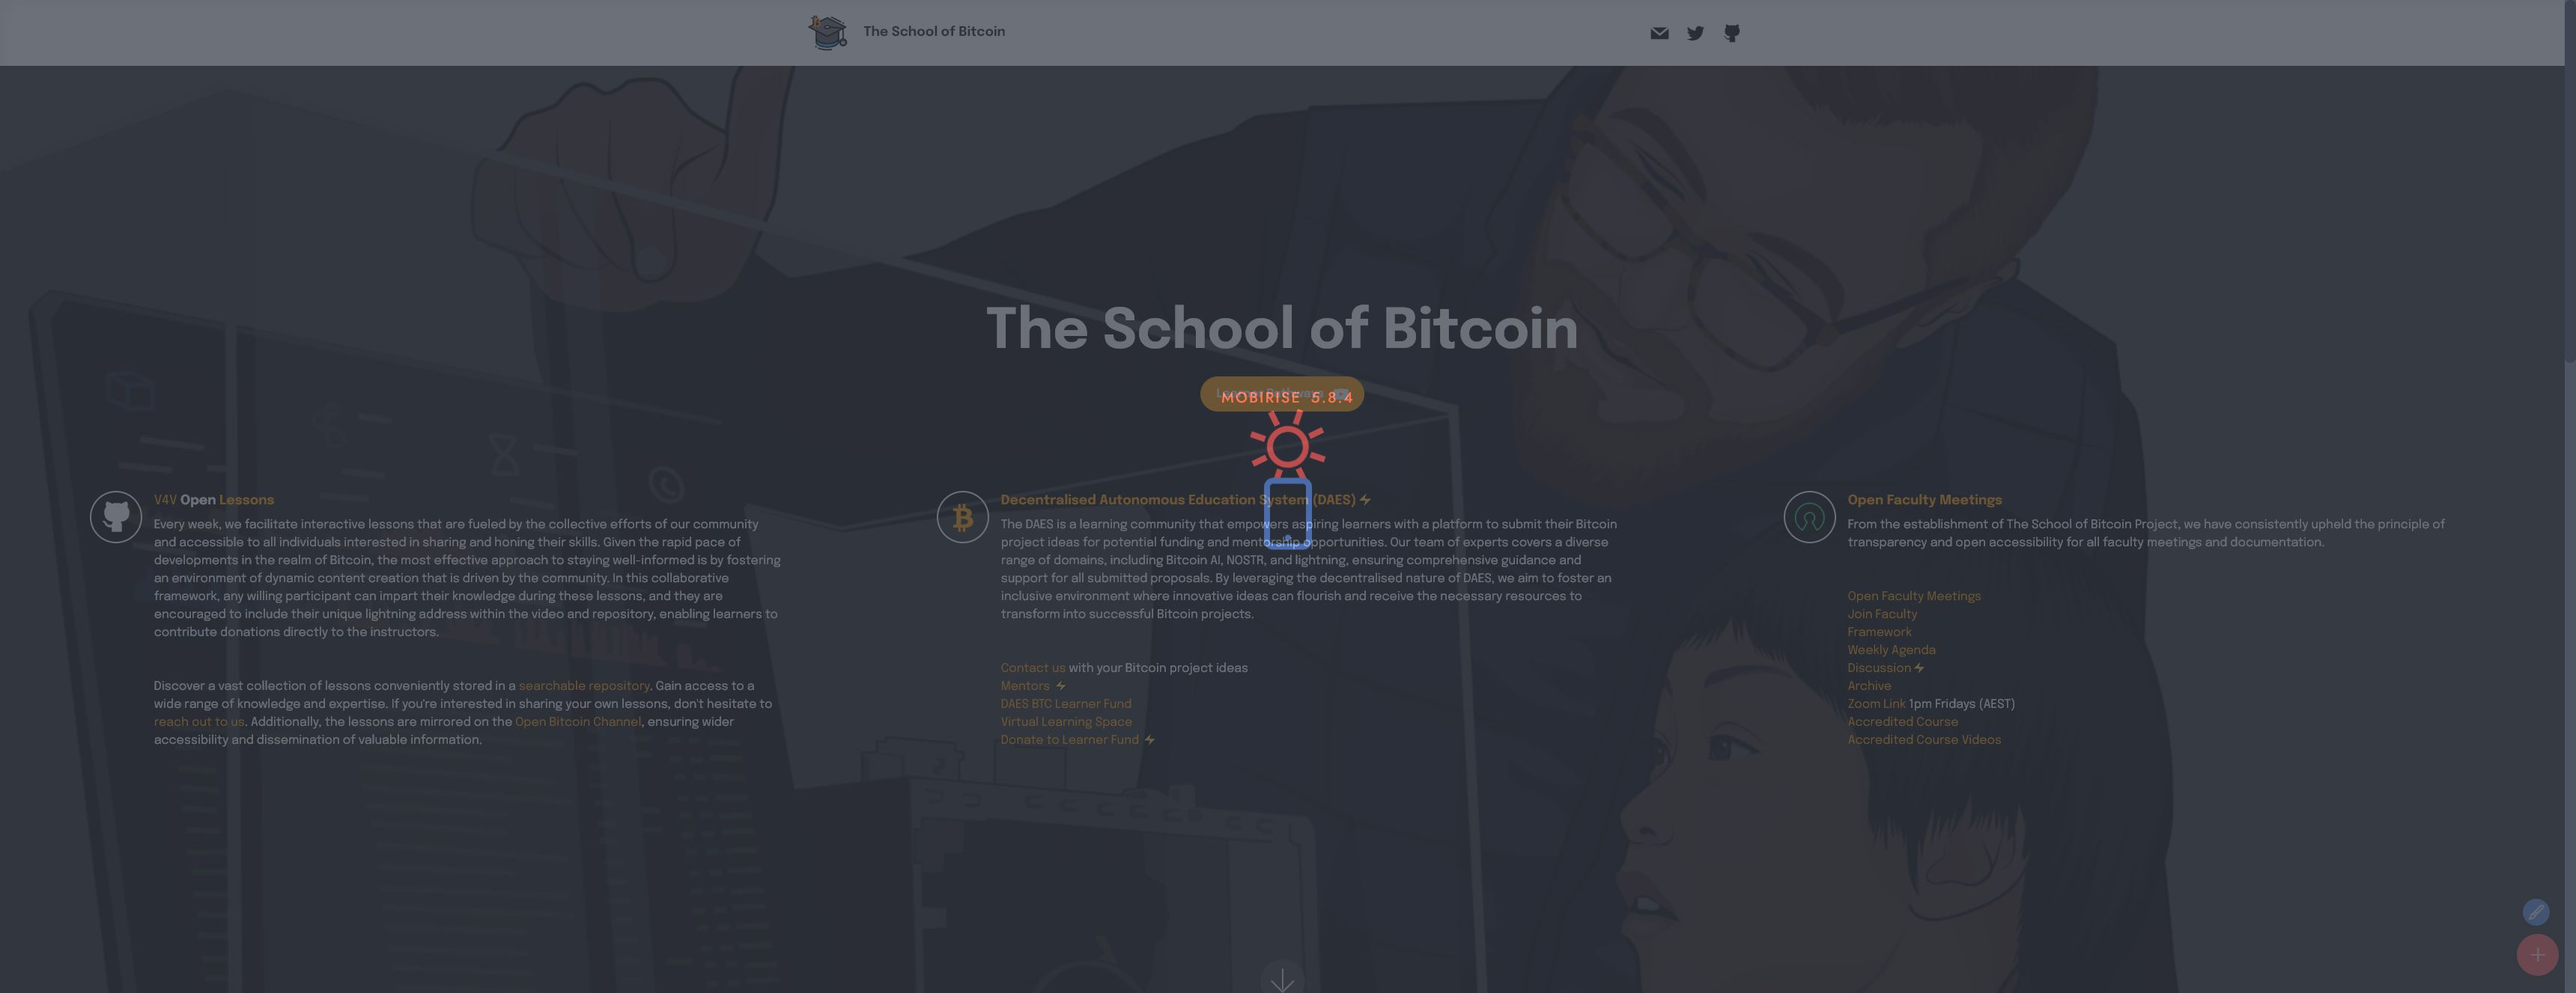
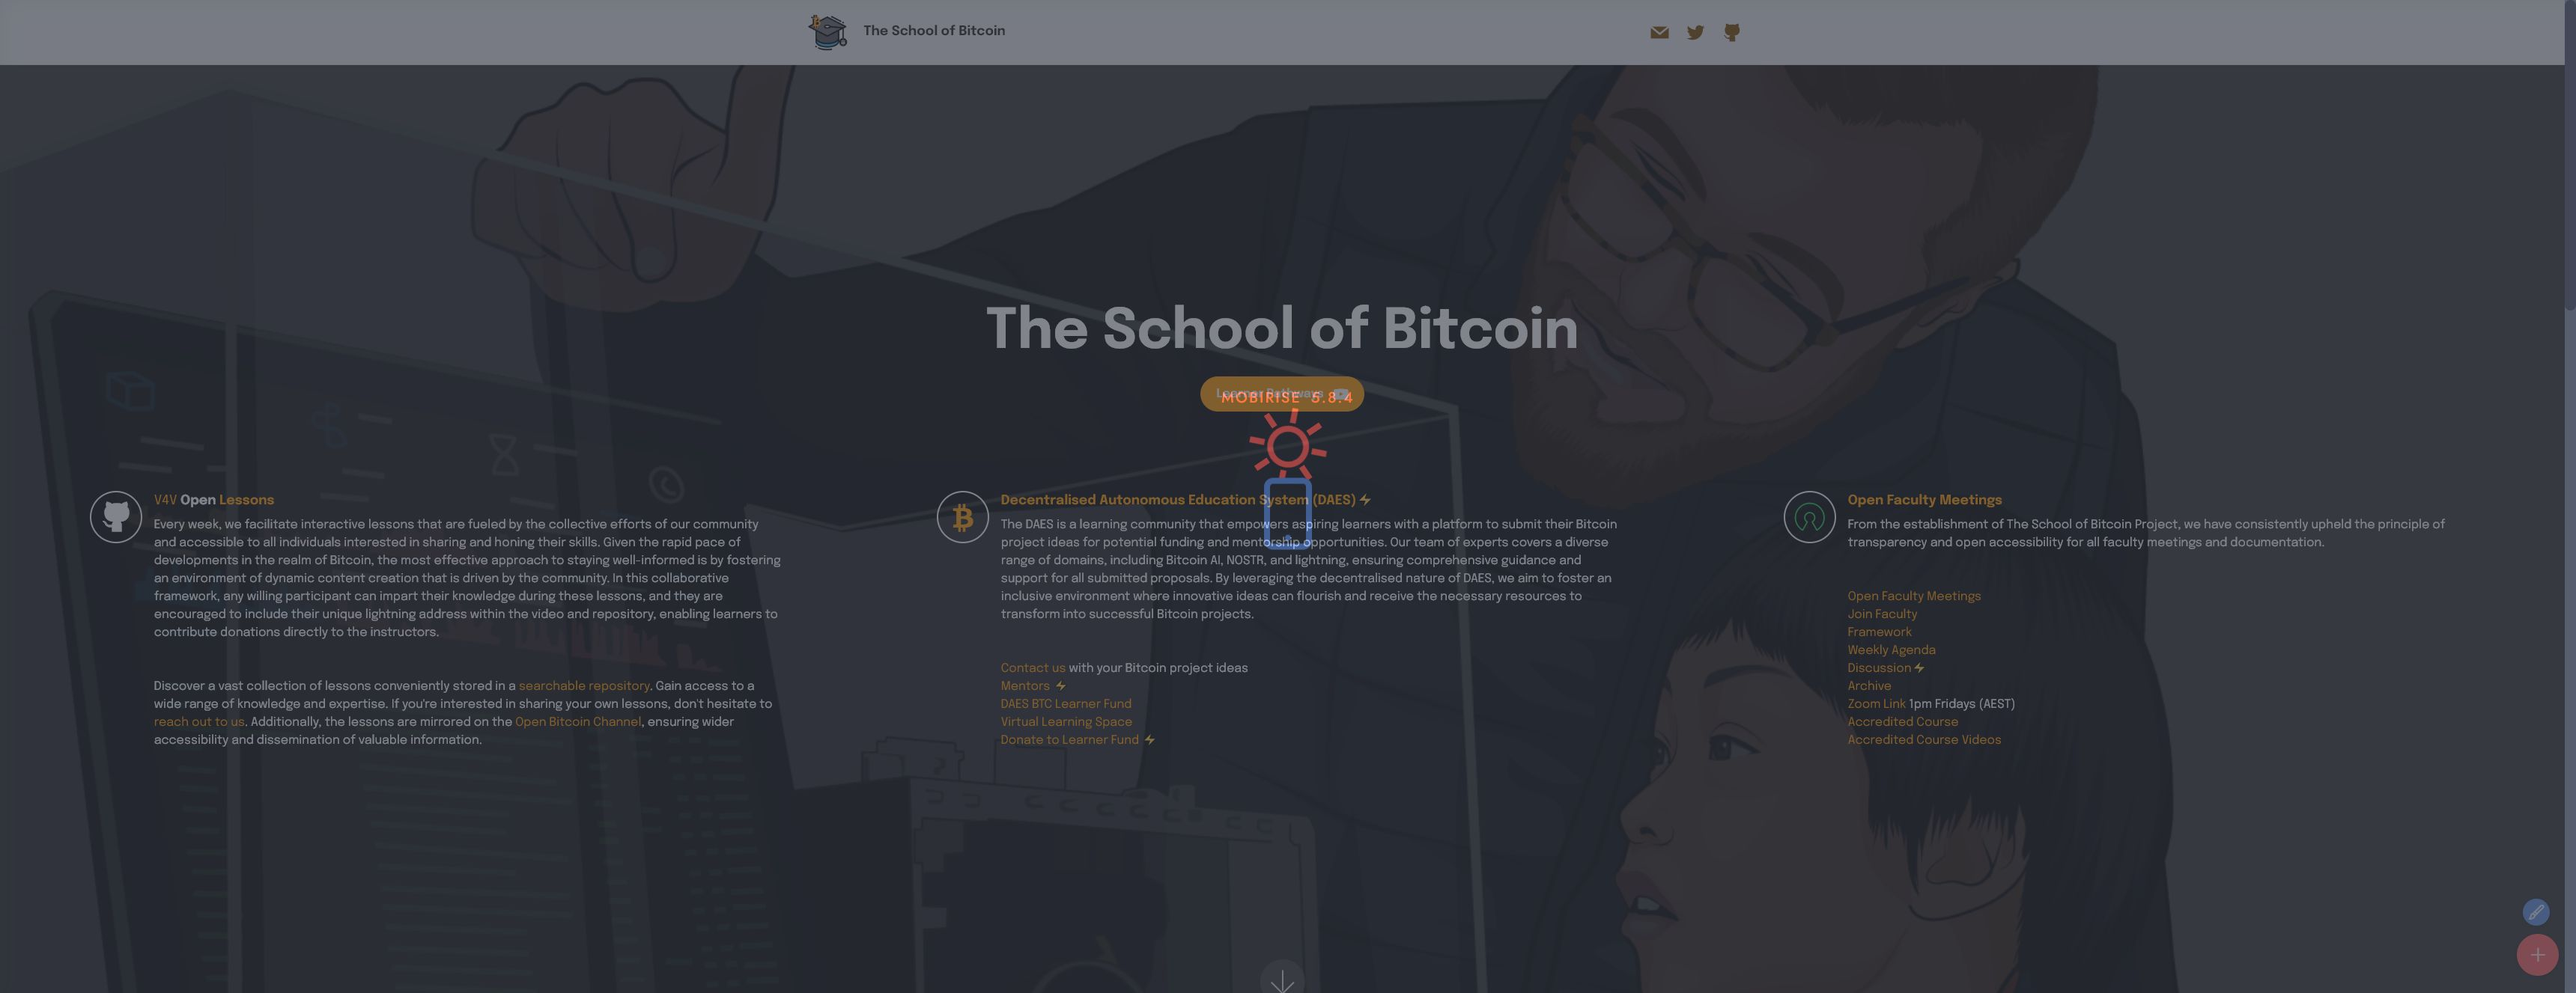
stacker update
upd
stacker update

Changed region(s): [[0.4666, 0.3708, 0.5288, 0.4943], [0.9953, 0.309, 1.0, 0.3708]]

diff --git a/index.html b/index.html
@@ -19,9 +19,9 @@
   <link rel="stylesheet" href="assets/bootstrap/css/bootstrap-reboot.min.css">
   <link rel="stylesheet" href="assets/parallax/jarallax.css">
   <link rel="stylesheet" href="assets/animatecss/animate.css">
-    <link rel="stylesheet" href="assets/popup-overlay-plugin/style.css">
+  <link rel="stylesheet" href="assets/popup-overlay-plugin/style.css">
   <link rel="stylesheet" href="assets/smart-cart/minicart-theme.css">
-  <link rel="stylesheet" href="assets/dropdown/css/style.css">
+    <link rel="stylesheet" href="assets/dropdown/css/style.css">
   <link rel="stylesheet" href="assets/socicon/css/styles.css">
   <link rel="stylesheet" href="assets/theme/css/style.css">
   <link rel="stylesheet" href="assets/recaptcha.css">
@@ -140,10 +140,10 @@
 </a><br><a href="https://groups.google.com/g/theschoolofbitcoin" class="text-primary" target="_blank">Join Faculty
 </a><br><a href="https://www.figma.com/file/NmTazraS5yKEIkWHHcrc8u/TSOBTC-oS3-frameWorkSpace?node-id=108-1010&t=nTrF3Aiwqcyge5mx-0" class="text-primary" target="_blank">Framework
 </a><br><a href="https://docs.google.com/document/d/1BFOCn-U4q4W5z3jVNaVAOWmV2uGGVSpk2w5HuiTFfO0/edit" class="text-primary" target="_blank">Weekly Agenda
-</a><br><a href="https://stacker.news/items/122395" class="text-primary" target="_blank">Discussion</a>⚡
+</a><br>TSOBTC&nbsp;<a href="https://stacker.news/items/185272" class="text-primary" target="_blank">Discussion⚡</a>
 <br><a href="https://www.youtube.com/playlist?list=PLwn9KgpxsZSRvMj6vHHAZbXVXOzX-sH6j" class="text-primary" target="_blank">Archive</a>
-<br><a href="https://zoom.us/j/95874185079?pwd=VWRqYk0yQzMxdjUyK28xcEx0RkpKZz09" class="text-primary" target="_blank">Zoom Link</a>&nbsp;1pm Fridays (AEST)<br><a href="https://github.com/TheSchoolofBitcoinCurriculum/21TSOBTC-Diploma-of-Applied-Bitcoin/blob/main/Course%20Outline" class="text-primary" target="_blank">Accredited Course
-</a><br><a href="https://www.youtube.com/watch?v=B6Wj0Dp3ACM&list=PLD3n5hQtZwochgpYKFzW_blDx-e6lzwZK" class="text-primary" target="_blank">Accredited Course Videos</a></p>
+<br><a href="https://zoom.us/j/95874185079?pwd=VWRqYk0yQzMxdjUyK28xcEx0RkpKZz09" class="text-primary" target="_blank">Zoom Link</a>&nbsp;1pm Fridays (AEST)<br>-------------------------------<br><a href="https://github.com/TheSchoolofBitcoinCurriculum/21TSOBTC-Diploma-of-Applied-Bitcoin/blob/main/Course%20Outline" class="text-primary" target="_blank">Accredited Course
+</a><br><a href="https://www.youtube.com/watch?v=B6Wj0Dp3ACM&list=PLD3n5hQtZwochgpYKFzW_blDx-e6lzwZK" class="text-primary" target="_blank">Accredited Course Videos</a><br><a href="https://www.youtube.com/watch?v=B6Wj0Dp3ACM&list=PLD3n5hQtZwochgpYKFzW_blDx-e6lzwZK" class="text-primary" target="_blank"></a><a href="https://stacker.news/items/122395" class="text-primary" target="_blank">Accredited Course Discussion⚡&nbsp;</a><br></p>
 					
 				</div>
 			</div>
@@ -409,9 +409,9 @@
   <script src="assets/parallax/jarallax.js"></script>
   <script src="assets/smoothscroll/smooth-scroll.js"></script>
   <script src="assets/ytplayer/index.js"></script>
-      <script src="assets/smart-cart/minicart.js"></script>
+  <script src="assets/smart-cart/minicart.js"></script>
   <script src="assets/smart-cart/minicart-customizer.js"></script>
-  <script src="assets/dropdown/js/navbar-dropdown.js"></script>
+      <script src="assets/dropdown/js/navbar-dropdown.js"></script>
   <script src="assets/popup-plugin/script.js"></script>
   <script src="assets/popup-video-plugin/script.js"></script>
   <script src="assets/popup-overlay-plugin/script.js"></script>
